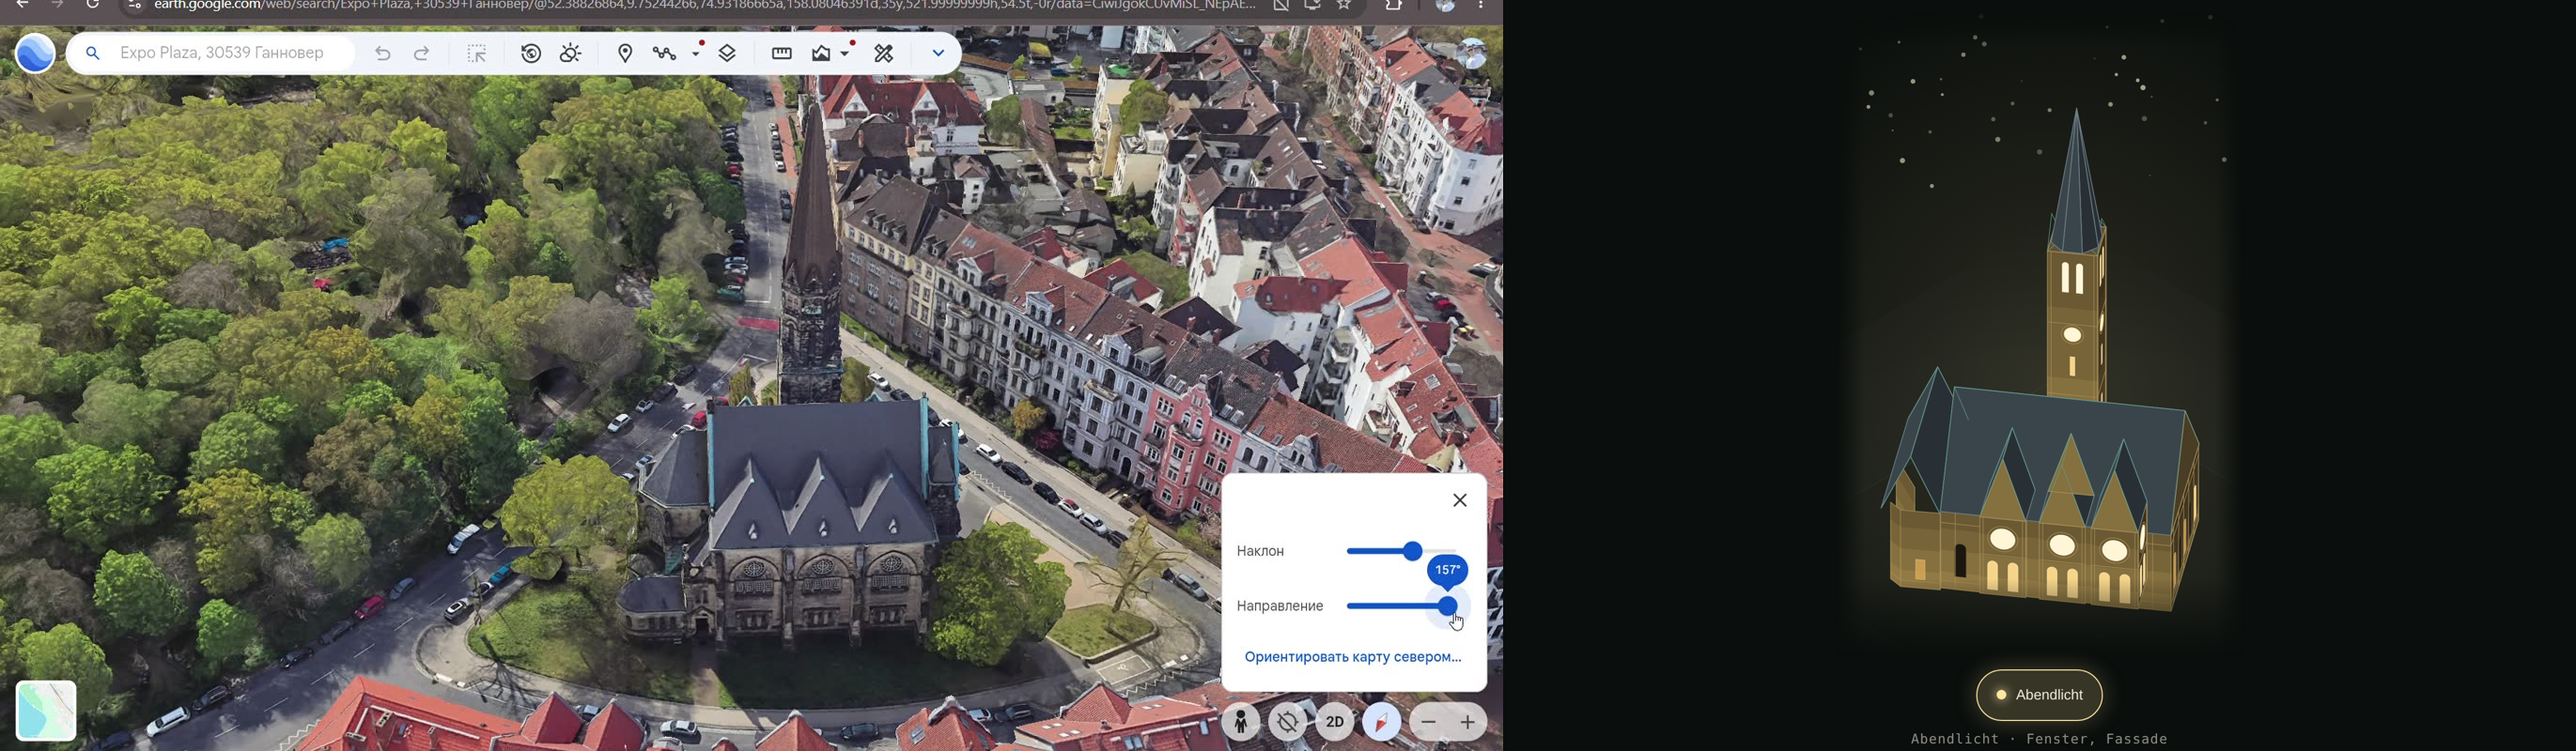
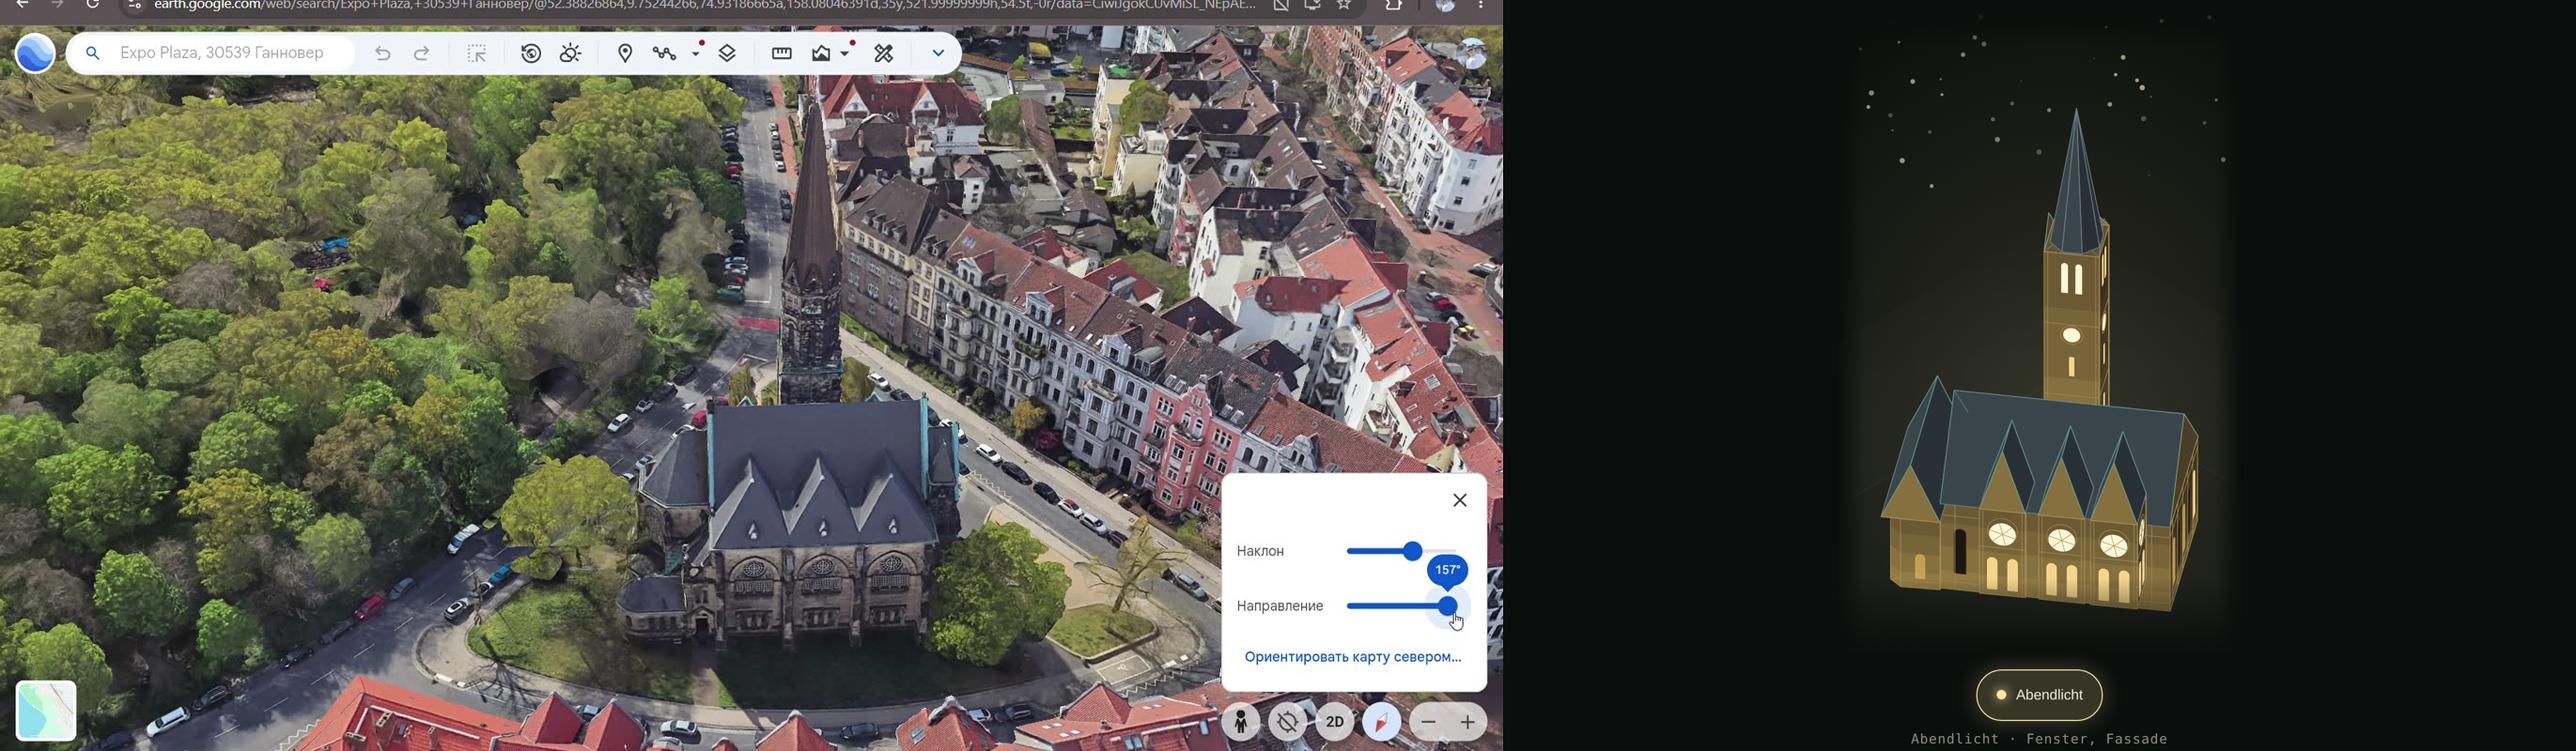
Markuskirche: розы, нервюры, метаданные (seo, адрес, год, архитектор), card_phi 180, сравнения, отчёт
Claude-Session: https://claude.ai/code/session_01HgqrCFzLJJJKyQUWfLHxG6

Changed region(s): [[0.713, 0.5625, 0.868, 0.7812], [0.744, 0.2812, 0.837, 0.5625]]

diff --git a/landmarks/markuskirche.js b/landmarks/markuskirche.js
@@ -183,6 +183,6 @@
       return s;
     };
     const M = [{ id: 'markuskirche', fp, draw }];
-    return { mods: M, lc: [0, 0], z0: 0, top: [-15, -9, Z0 + 72], label: 'Markuskirche', h: 70, len: 60 };
+    return { mods: M, lc: [0, 0], z0: 0, top: [-15, -9, Z0 + 72], pin: [-1, 2, Z0 + 74], label: 'Markuskirche', h: 70, len: 60 };
   });
 })();

diff --git a/ref/markuskirche/README.md b/ref/markuskirche/README.md
@@ -1,22 +1,25 @@
-# Markuskirche — отчёт
+Markuskirche: отчёт после доработки (p_markuskirche)
 
-**Что нарисовано.** Модуль `landmarks/markuskirche.js`: длинный неф (steiles Satteldach, шифер), три щипца на северо-западной стене, хор на востоке, башня посередине южной стороны (≈ 70 м) с восьмигранным шпилем, две низкие пристройки. Из OSM только общий контур `w44834907` (одним полигоном), поэтому части и высоты подобраны вручную по кадрам (`ref/markuskirche/gen/gen-mk.py`, `TEILE.md`). 17 выпуклых кусков, SVG ≈ 12 КБ.
+Что сделано
+Масштаб на карте теперь x1.0 (якорь 60 м, len 60; раньше 90 на 60 давало x1,5 и башню около 98 м). Башня теперь 70 м реально.
+Пропорции сняты с кадров через восстановленную камеру (URL Google Earth, контур OSM на цоколе): карниз 15,5 м, конёк нефа 28 м, щипцы до 26,5 м, башня 8,4 x 8,4 м, шпиль до 70 м.
+Детали: башня с угловыми пилястрами, парными арочными проёмами звона, часами с подсветкой, порталом и розой на южной стороне, четырьмя декоративными щипцами под шпилем; три щипца СЗ-стены с розами (с тремя нервюрами), парными арочными окнами и лизенами; арочные окна нефа и пристроек; медная патина на коньках, гребнях и скатах щипцов.
+Исправлена ошибка отсечения вертикальных граней щипцов (K.face переворачивал их при нулевой нормали), теперь грани щипцов и ризалитов рисуются с явной нормалью.
+card_phi = 180: карточка показывает СЗ-стену с тремя щипцами и башней позади (как кадр v_03). Ошибок порядка рисования нет (проверены 0, 90, 180, 270). Точка (pin) над серединой плана на высоте шпиля.
 
-**Сторона → кадры.**
-| Сторона | Кадры |
-|---|---|
-| СЗ (щипцы) | v_01, v_02, v_03 |
-| Запад (щипец с розой) | v_04, v_05 |
-| Юг (башня и вход) | v_06, v_08 |
-| Восток (хор) | v_07, частично v_05 (закрыт деревьями) |
+Сторона -> кадры
+СЗ (три щипца): v_01, v_02, v_03. Запад (щипец, пристройка): v_04, v_05, v_06. Юг (башня, вход, окна): v_06, v_07. Апсида (восток): v_07, частично v_05.
 
-**Сравнения.** `vergleich-1.png` (v_03, вид на СЗ-стену и башню), `vergleich-2.png` (v_06, вход под башней), `vergleich-3.png` (v_05, западный щипец). Расстановка частей и силуэт совпадают; отличия: у настоящей башни более богатый декор, роза и аркады на щипцах не нарисованы.
+Сравнения
+vergleich-4.png: v_03 и карточка при card_phi 180. vergleich-5.png: v_07 и карточка при card_phi 0 (вид как на карте). vergleich-6.png: v_06 и карточка при card_phi 270. vergleich-1..3.png старые.
+Расхождения мельче окна: у настоящей церкви богаче камень, контрфорсы выступают, у западной стороны сложный портал, апсида с медной башенкой нарисована упрощённо.
 
-**По аналогии / не видно.** Хор и восточная сторона, декор башни, контрфорсы, угловые башенки. Высоты стен и коньков оценены по пропорциям кадров (±2 м).
+По аналогии
+Восточная сторона и хор (деревья), форма контрфорсов, боковые пристройки башни, материал камня (в источниках не указан, рисуем как тёмный камень). Высоты оценены с точностью около 1 до 2 м.
 
-**Непроверенные факты.** Архитектор О. Люэр, 1902–1906, башня ≈ 70 м, 400 бетонных свай (de.wikipedia и de-academic совпадают); тип/материал кладки в источниках не указан, рисую как тёмный камень.
+Проверенные факты
+Otto Lüer, строительство 1902, освящение 1906, башня около 70 м, около 400 бетонных свай на плывуне, орган Ott 1958 до 1962 с 56 регистрами, история (de-academic по de.wikipedia). Адрес Oskar-Winter-Straße 7, 30161 Hannover (feverup, karlobag; почтовый индекс только из одного источника). Стиль: Историзм.
 
-**Нужно от сборщика/core.**
-1. Идея Степана: в карточке рисовать здание лицевой стороной (на карте реальная ориентация). Для этого нужен поворот `phi` в `studio.js`; у каждого здания в meta можно хранить лицевую сторону (`face`). Здесь «лицо» — южная сторона с башней.
-2. `tools/map-crop.mjs` не вызывает `SCENE.region` (пустая картинка); путь CHROME по умолчанию (chromium-1194) неверный.
-3. Якорь `point` [52.3883, 9.7523, 90 м] + `osm` w44834907.
+Нужно от сборщика
+Здание вне зоны детальных плиток проверить (якорь 52.3883, 9.7523). Прочего от core не требуется.
+Нужны от Степана кадры: крупно западный фасад с порталом, апсида с востока (без деревьев, зимой), башня вблизи на уровне звона.

diff --git a/ref/markuskirche/INDEX.md b/ref/markuskirche/INDEX.md
@@ -1,20 +1,10 @@
-# Markuskirche — разбор кадров
-
-Камера проекта: вид с ЮВ (≈151°, взгляд 331°), наклон 54°. На кадрах Google Earth курс камеры (из адресной строки, параметр h): v_01/02 ≈ 160°, v_03 ≈ 162°, v_04 ≈ 120°, v_05 ≈ 94°, v_06 ≈ 30°, v_07 ≈ 310°, v_08 ≈ 255°. Север на кадрах не сверху.
-
-| Кадр | Камера смотрит на | Что видно | Годится для |
-|---|---|---|---|
-| v_01, v_02 | ЮЮВ (с ССЗ) | северо-западная стена с тремя щипцами и аркадными окнами, башня позади по центру | щипцы, пропорции крыши |
-| v_03 | ЮЮВ | то же крупнее, крыша, башня с часами | щипцы, окна, цвет и форма крыши |
-| v_04 | ЮВ | щипцы, западный торец, башня | башня, западный фасад |
-| v_05 | В (94°) | западный щипец с розой и порталом, башня справа (юг), длинная крыша | западный фасад, высота башни |
-| v_06 | ССВ (30°) | южный вход под башней, шпиль, южный и западный щипцы | башня, шпиль, южная сторона |
-| v_07 | СЗ | башня, сторона вдоль улицы, восточный конец | башня, шпиль |
-| v_08 | ЮЗ | башня с часами, шпиль, западный щипец | башня, шпиль |
-
-## Чеклист по сторонам
-- СЗ стена (к парку): камень тёмный, три больших щипца с парными аркадными окнами, у краёв контрфорсы; шиферная крыша.
-- Юг: башня на середине южной стороны (над входом), 70 м, часы, колокольный ярус, восьмигранный шпиль; рядом низкая пристройка.
-- Запад: большой щипец с розой и порталом (кадр v_05).
-- Восток: апсида/хор, скруглённый (контур OSM), по кадрам видно плохо (деревья).
-- Не видно: восточные и северо-восточные детали, форма контрфорсов, декор башни — по аналогии.
+Markuskirche: разбор кадров
+Камера проекта: вид с ЮВ (взгляд 331°, наклон 54°). Курс камеры на кадрах взят из адресной строки Google Earth и ползунка. Для проверки камера восстановлена по параметрам URL (фокус 52.38826864 N, 9.75244266 E, дальность 158 м, угол обзора 35°, наклон 54,5°) и контур OSM w44834907 наложен на кадры; контур ложится на цоколь церкви, из кадров v_03 и v_07 сняты высоты (карниз около 15 м, конёк около 27 м, шпиль около 64 до 70 м).
+v_01, v_02: курс около 160°. СЗ-стена с тремя щипцами, башня позади по центру. Годится: щипцы, пропорции крыши.
+v_03: курс 157 до 162°. То же крупнее: щипцы с розами и парными арочными окнами, цоколь, контрфорсы, зелёные кромки кровли, башня с часами. Лучший кадр для лицевой стороны.
+v_04: курс 121°. Щипцы, западный торец, башня.
+v_05: курс 82 до 95°. Западный щипец с порталом, башня справа, длинная крыша.
+v_06: курс 20 до 30°. Южный вход под башней (портал), шпиль, западный щипец и пристройка.
+v_07: курс 310°. Южная сторона: башня с часами и аркадами звона, большие арочные окна с розой, многогранная апсида с медной башенкой.
+v_08: курс 215 до 255°. Башня, шпиль, западный щипец.
+Не видно: восточная сторона и хор закрыты деревьями, задняя сторона южных пристроек.
